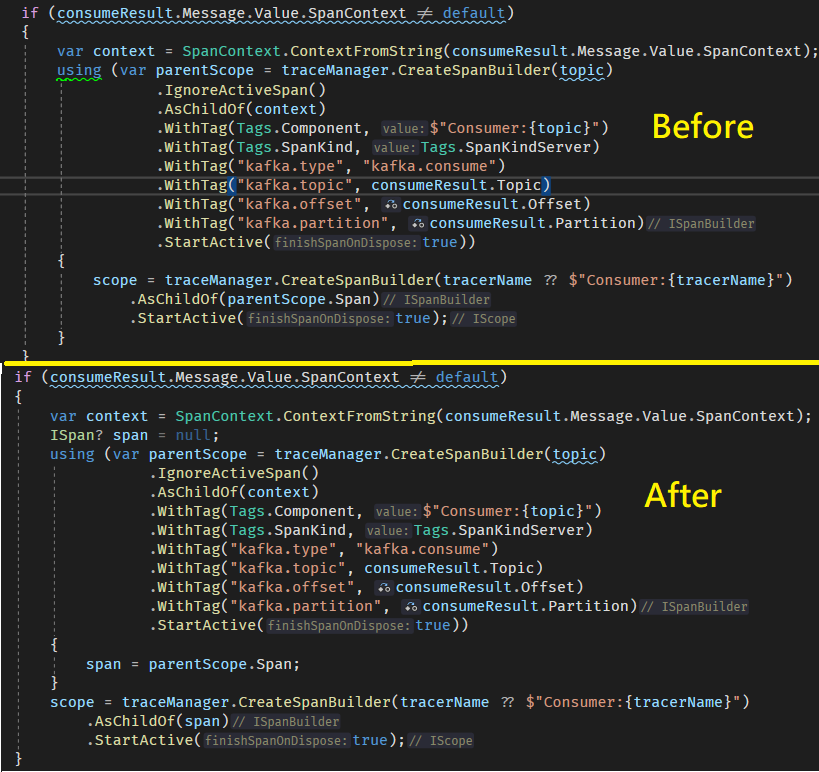
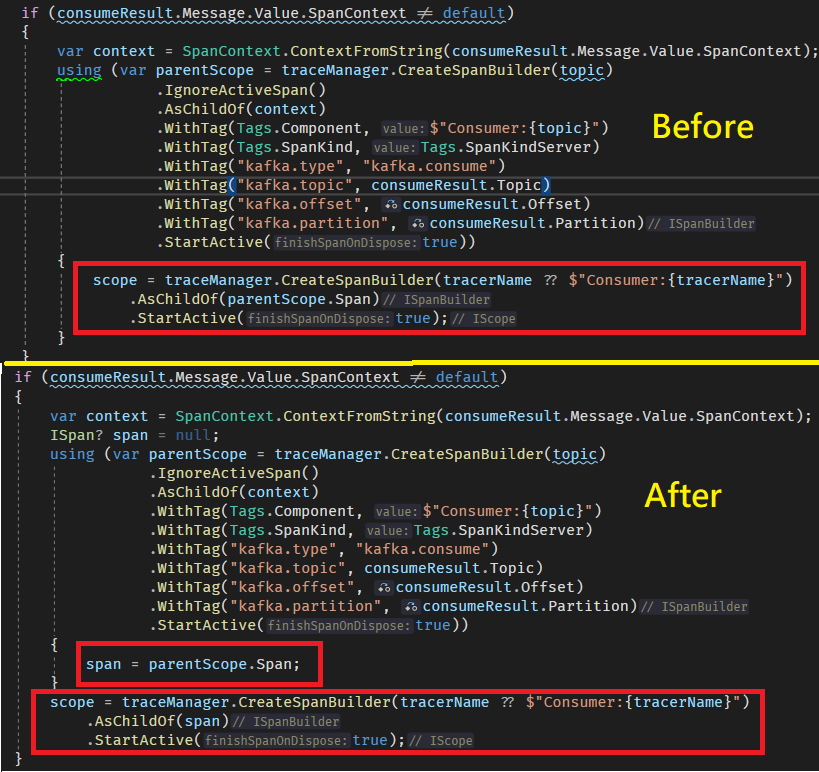
update

Changed region(s): [[0.0305, 0.8083, 0.9463, 0.9948], [0.0916, 0.3109, 1.0, 0.4352]]

diff --git a/README.md b/README.md
@@ -2,12 +2,13 @@
 
 
 ## Issues
-![](./Pictures/Issues01.png)
 ![](./Pictures/Issues02.png)
-我們的Worker持續有memory leak的問題，大約一個禮拜100mb左右，但因為部屬還算頻繁的關係導致問題不是很明顯，不會到Pod死掉這麼嚴重，但去年世界賽的時候有Code Freezes一段時間沒有部屬，導致這問題又浮現出來，所以就有了這一張單去處理這Issue，在查找的過程中有使用了一些工具和心得，簡單介紹和分享一下
+有一台Worker Service 持續有memory leak的問題，大約一個禮拜100mb左右，在處理這Issue時間的過程中有使用了一些工具和心得，簡單介紹和分享一下
 
 ### 適用場景
-因為他本身的用途蠻廣的，Application Crash、CPU High、Memory Leak、stack trace等等問題都可以去解，最重要的就是收集Dump檔
+本身的用途蠻廣的，Application Crash、CPU High、Memory Leak、stack trace等等問題都可以去解。
+
+最重要的就是收集Dump檔
 
 ## dotnet tools
 
@@ -70,7 +71,7 @@ dumpheap -mt 00007ffbfe420770
 ```
 Address| MT|     Size|
 
-    ![](./Pictures/dumpheap-mt.png)
+![](./Pictures/dumpheap-mt.png)
 
 列出物件的詳細資訊(Method Table、EEClass、Size、Field。
 ```
@@ -85,9 +86,9 @@ do {Address}
 dumpheap -mt 00007faddaa50f90
 ```
 ![](./Pictures/dumpheap-mt2.png)
-可以稍微整理一下這些資訊
 
-拿到MethTable裡面詳細的資訊後
+可以稍微整理一下這些資訊，如果資料量太多強烈建議使用WinDbg、dotmemory
+接著拿到MethTable裡面詳細的資訊後
 ```
 dumpobj {Address}
 do 000001871a56e810
@@ -95,6 +96,7 @@ do 000001871a56e810
 ![](./Pictures/dumpobj-string.png)
 ## example code
 ![](./Pictures/example-code-compare.png)
+在還沒修改之前的程式碼乍看之下沒發生什麼問題，看看了Source code之後有發現其實是不能在一個Scope裡面新建立一個Scope的，會造成在Dispose時判斷說不是當前的Scope而被直接Return
 ![](./Pictures/example-code02.png)
 
 ## 其他工具:
@@ -196,9 +198,6 @@ get snapshot
 1. 找到復現的方式，假設Memory沒有任何增長，代表那塊地方沒有memory leak的問題，可以直接排除掉
 2. 假設有出現memory的增長很有可能只是GC還沒回收
 3. GC有可能已經回收但沒立刻釋放memory，GC內部會把那塊memory標記成可以重新使用，等下次分配使用(為了避免頻繁的記憶體分配和釋放的操作)
-
-後續觀察結果
-![](https://hackmd.io/_uploads/Hkdj5t1wn.png)
 
 ### Reference
 
